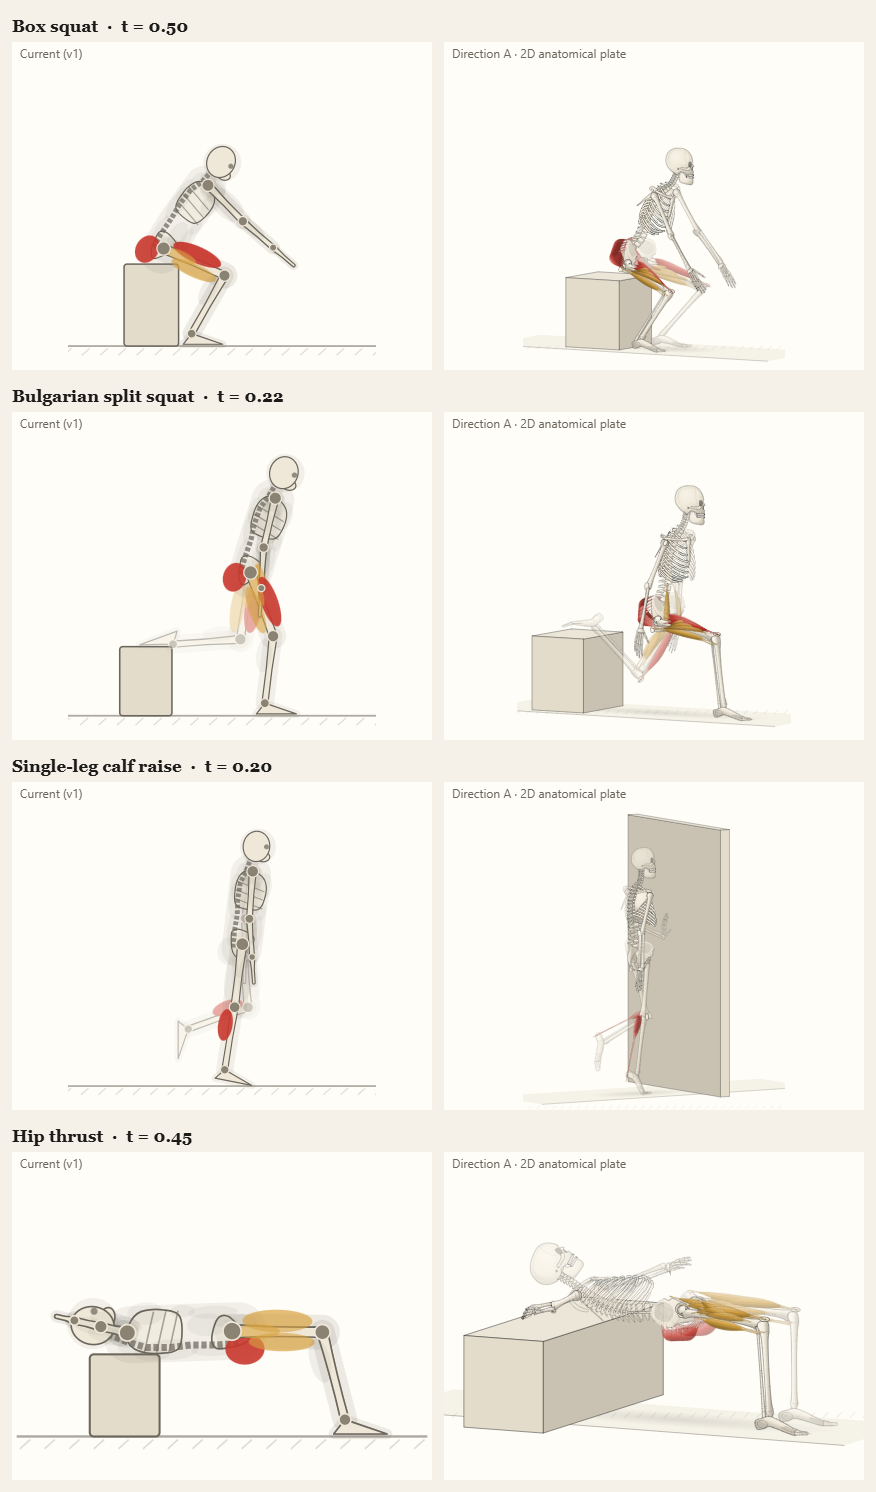
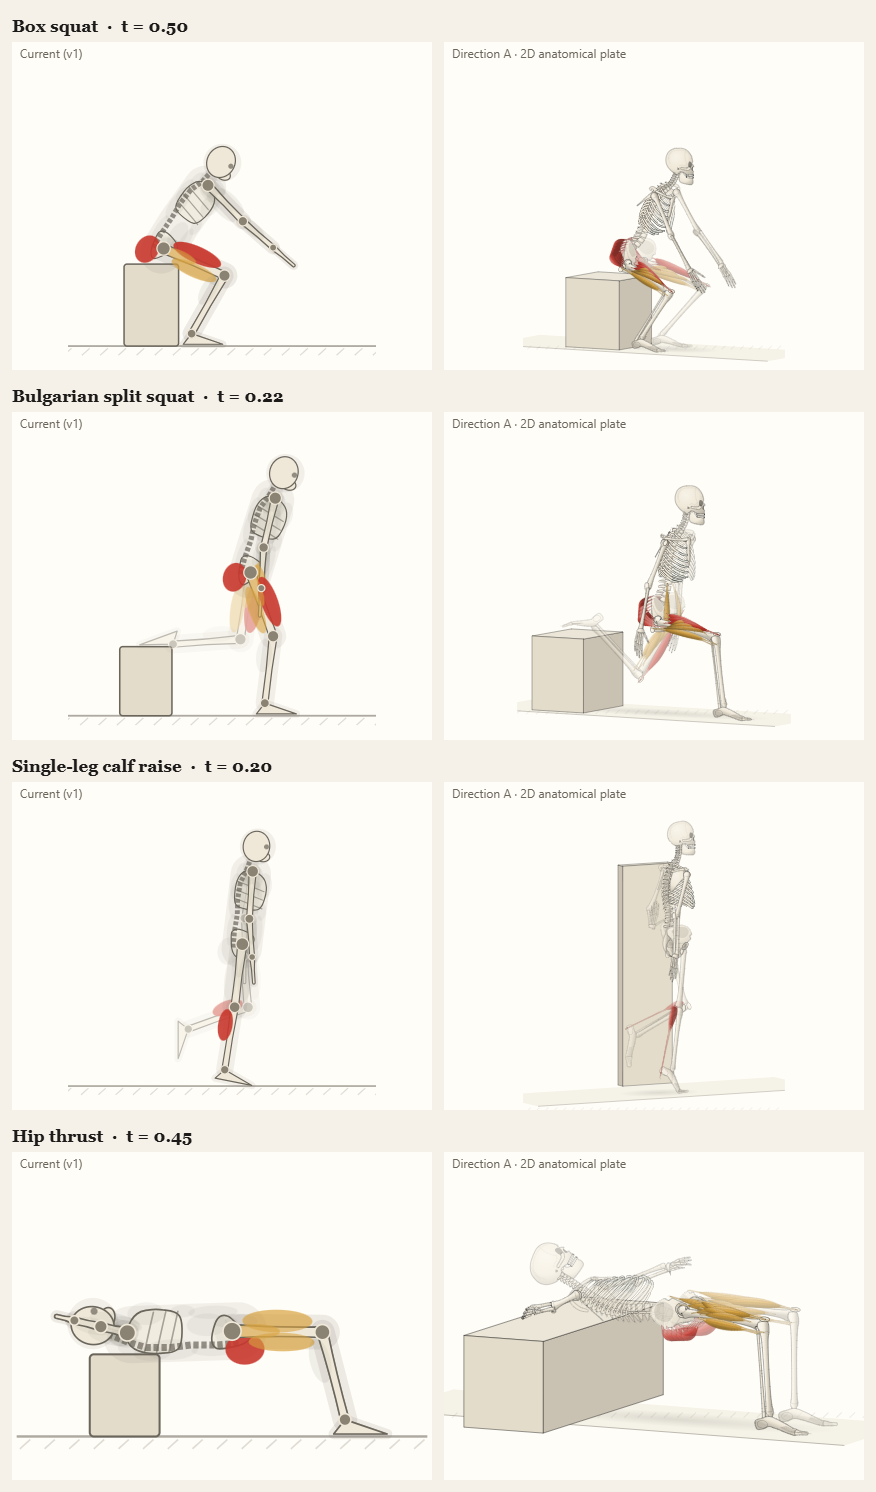
Anim v2 batch 2 prop fixes: single-leg calf raise rests a hand on a modest wall edge
The full-height wall in front of the body is replaced by a short wall return beside and behind the figure, with the
left palm resting on its face (solved to <= 88% reach whichever foot is standing). When sides alternate the support
hand stays on the wall (core: clip.keepArms) and the hips shift towards it. Camera from behind, calves first.

Changed region(s): [[0.6781, 0.5241, 0.8322, 0.7399]]

diff --git a/js/anim/v2/clips/legs.js b/js/anim/v2/clips/legs.js
@@ -97,24 +97,30 @@ function calfRaise(f) {
   return Object.assign(c, f(c));
 }
 const calf_raise = calfRaise(() => ({ name: 'Calf raise', muscles: { primary: ['calves'], secondary: [] } }));
-// on the right foot, left foot tucked behind; hips over the standing foot; fingertips on a wall. Sides alternate.
+// on one foot, the other tucked behind; hips over the standing foot. The left hand rests on a wall edge beside the
+// body (kept on the left when sides alternate: the hips just shift towards it). Camera from behind: calves first.
+const WALL_Y = 112;
 const single_leg_calf_raise = calfRaise(c => ({
-  name: 'Single-leg calf raise', swap: true, still: .22, cam: { az: -32, el: 6 },   // from behind: calves and the wall face _wx: 62,
+  name: 'Single-leg calf raise', swap: true, keepArms: true, still: .22, cam: { az: -28, el: 7 }, _wz: -48, _hx: 4,
   muscles: { primary: ['calves'], secondary: [] },
   legs: { R: { mode: 'ik', foot: 'toes', toeOut: 6, knee: 3, ball: () => [0, 0, 10], pole: () => [1, 0, .15] } },
-  arms: { L: { mode: 'ik', grip: 'palm', normal: () => [-1, 0, 0], pole: [-.3, -1, .6], dir: () => [0, 1, .1], target: () => [c._wx, 118, -16] } },
-  base: { rootY: 90, pitch: 1, elbowR: 12, palmR: 90, wristR: 4, fingersR: 22, shAbdR: 5, fingersL: 20,
+  arms: { L: { mode: 'ik', grip: 'palm', normal: () => [0, 0, 1], pole: [-.4, -1, -.2], dir: () => [.2, 1, 0], target: () => [c._hx, WALL_Y, c._wz] } },
+  base: { rootY: 90, pitch: 1, elbowR: 12, palmR: 90, wristR: 4, fingersR: 22, shAbdR: 5, fingersL: 15,
     hipFlexL: 14, kneeL: 78, ankleL: 25, hipAbdL: -2, rootZ: 7, roll: -2 },
   keys: { down: { rootY: 90 }, up: { rootY: 99, head: -1, thoracic: -1 } },
   timeline: repUp('down', 'up', { p0: .35, con: .9, p1: .6, ecc: 2.4 }),
-  props: c => [box([c._wx, 0, -70], [c._wx + 8, 200, 60], -1e4)],
+  props: c => [box([c._hx - 22, 0, c._wz - 7], [c._hx + 16, 150, c._wz], -1e4)],   // a short wall return, beside and behind
   prep({ settle }) {
     const k = c.keys, S0 = settle({ ...k.down, rootY: 70 }, true);
     c._h0 = S0.pt.heelR[1];
     const y = solve(70, 105, y => settle({ ...k.down, rootY: y }, true).pt.heelR[1], c._h0 + .05);
     k.down.rootY = y - .6; k.up.rootY = y + 9;
-    const g = settle(k.up, true).pt.glenoidL;   // wall where the fingertips rest (90% reach at the top)
-    c._wx = g[0] + 2.4 + Math.sqrt(Math.max(0, (.9 * 55) ** 2 - (118 - 5.2 - g[1]) ** 2 - (-16 - g[2]) ** 2));
+    // wall face where the palm rests at <= 88% reach at the top, whether the hips sit over the right foot or (mirrored)
+    // over the left one, i.e. solved for the shoulder farthest from the wall
+    c._wz = Math.max(...[7, -7].map(z => {
+      const g = settle({ ...k.up, rootZ: z }, true).pt.glenoidL, dy = WALL_Y - 5.1 - g[1], dx = c._hx - 1 - g[0];
+      return g[2] - Math.sqrt(Math.max(0, (.88 * 55) ** 2 - dy * dy - dx * dx)) - 2.4;
+    }));
   },
 }));
 

diff --git a/js/anim/v2/core.js b/js/anim/v2/core.js
@@ -522,7 +522,7 @@ function mirrored(c) {
   if (c._mir) return c._mir;
   const m = { ...c, swap: false, prep: null, _prepped: true, _c: null, _an: null, _mir: null, shift: -(c.shift ?? .5), shiftRoll: -(c.shiftRoll ?? .6),
     base: mirrorPose(expand(c.base || {})), keys: Object.fromEntries(Object.entries(c.keys).map(([k, v]) => [k, mirrorPose(expand(v))])),
-    legs: mirrorLimbs(c.legs), arms: mirrorLimbs(c.arms) };
+    legs: mirrorLimbs(c.legs), arms: c.keepArms ? c.arms : mirrorLimbs(c.arms) };   // keepArms: a support hand stays put
   if (c.derive) m.derive = (ch, lag, sm) => { const x = mirrorPose(ch); c.derive(x, mirrorPose(lag), sm); Object.assign(ch, mirrorPose(x)); };
   if (c.balance) m.balance = S => c.balance(swapPt(S));
   if (c.pin) m.pin = { ...c.pin, pt: S => fz(c.pin.pt(swapPt(S))) };
